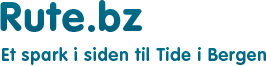
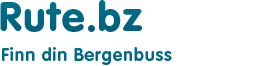
Changed punchline, removed old search code

Changed region(s): [[0.0, 0.697, 1.0, 1.0]]

diff --git a/libs/RouteSearch.php b/libs/RouteSearch.php
@@ -39,104 +39,6 @@ class RouteSearch {
      * @param string $to
      * @param mixed $time
      */
-    public function searchOld($from, $to, $time=false, $weekday=false, $limit=5, $offset=0) {
-        $hits = array();
-        /**
-         * First find all buses having both stops in their path, kinda nice
-         */
-        $db = Config::getDb();
-        $buses = $db->buses->find(array(
-            'search.stops' => array(
-                '$all' => array($from, $to)
-            )
-        ));
-
-        // Iterate over each bus
-        if (!$time)
-            $time = date("Hi");//"0700";
-        if (!$weekday)
-            $weekday = (int)date("w");
-        if ($weekday == 0) // sunday, fix it
-            $weekday = 7;
-        //list($timeHour, $timeMinte) = explode(":", $time);
-        $time = str_replace(":", "", $time);
-        $timeSort = array();
-        while ($bus = $buses->getNext()) {
-            // Find what route to use
-            foreach ($bus['routes'] as $route) {
-                // Verify that stop is after start in this route
-                $status = 0;
-                $runningTime = 0; // Running time of bus
-                $wait = 0;
-                $stops = 0;
-                foreach ($route['stops'] as $key => $stop) {
-                    if ($status == 0) {
-                        $wait += $stop['time'];
-                    }
-                    if ($stop['name'] == $from && $status == 0) {
-                        // Start accumulating time
-                        $runningTime += $stop['time'];
-                        $status = 1;
-                    }
-                    elseif ($stop['name'] == $to && $status == 1) {
-                        $stops++;
-                        $runningTime += $stop['time'];
-                        $status = 2;
-                        break;
-                    }
-                }
-                if ($status == 2) {
-                    /**
-                     * Find a departure to match
-                     */
-                    $now = date("Hi");//"0700";
-                    $startTime = $time - $wait;
-                    $departures = $db->departures->find(array(
-                        'route' => $bus['id'],
-                        'days' => array(
-                            '$all' => array((int)$weekday)
-                        ),
-                        'time' => array(
-                            '$gt' => (int)$time - $wait
-                        )
-                    ))->sort(array('time' => 1))->skip(0);
-
-                    while ($dep = $departures->getNext()) {
-                        $departMinute = (int)substr((string)$dep['time'], -2);
-                        $departHour = (int)substr((string)$dep['time'], 0, -2);
-                        $nowHour = (int)date("H");
-                        $startTime = date("H:i", mktime($departHour, $departMinute + $wait));
-                        $arrivalTime = date("H:i", mktime($departHour, $departMinute + $wait + $runningTime));
-                        $waitTime = (
-                            (((int)$departHour - (int)$nowHour) * 60) +
-                            ($departMinute + $wait) - date("i")
-                        );
-                        $hits[] = array(
-                            'id' => $bus['id'],
-                            'name' => $route['name'],
-                            'runningTime' => $runningTime,
-                            'startTime' => $startTime,
-                            'arrivalTime' => $arrivalTime,
-                            'arrivalSpan' => $runningTime + $waitTime,
-                            'wait' => $waitTime,
-                            'stops' => $stops
-                        );
-                        $timeSort[] = $waitTime;
-                    }
-                }
-            }
-        }
-        array_multisort($timeSort, SORT_ASC, $hits);
-        return array_slice($hits, $offset, $limit);
-    }
-
-    /**
-     * Search for routes going from from to to
-     * @return array
-     * @param string $from
-     * @param string $to
-     * @param mixed $time
-     */
     public function search($from, $to, $time=false, $weekday=false, $limit=5, $offset=0) {
         $hits = array();
         /**
